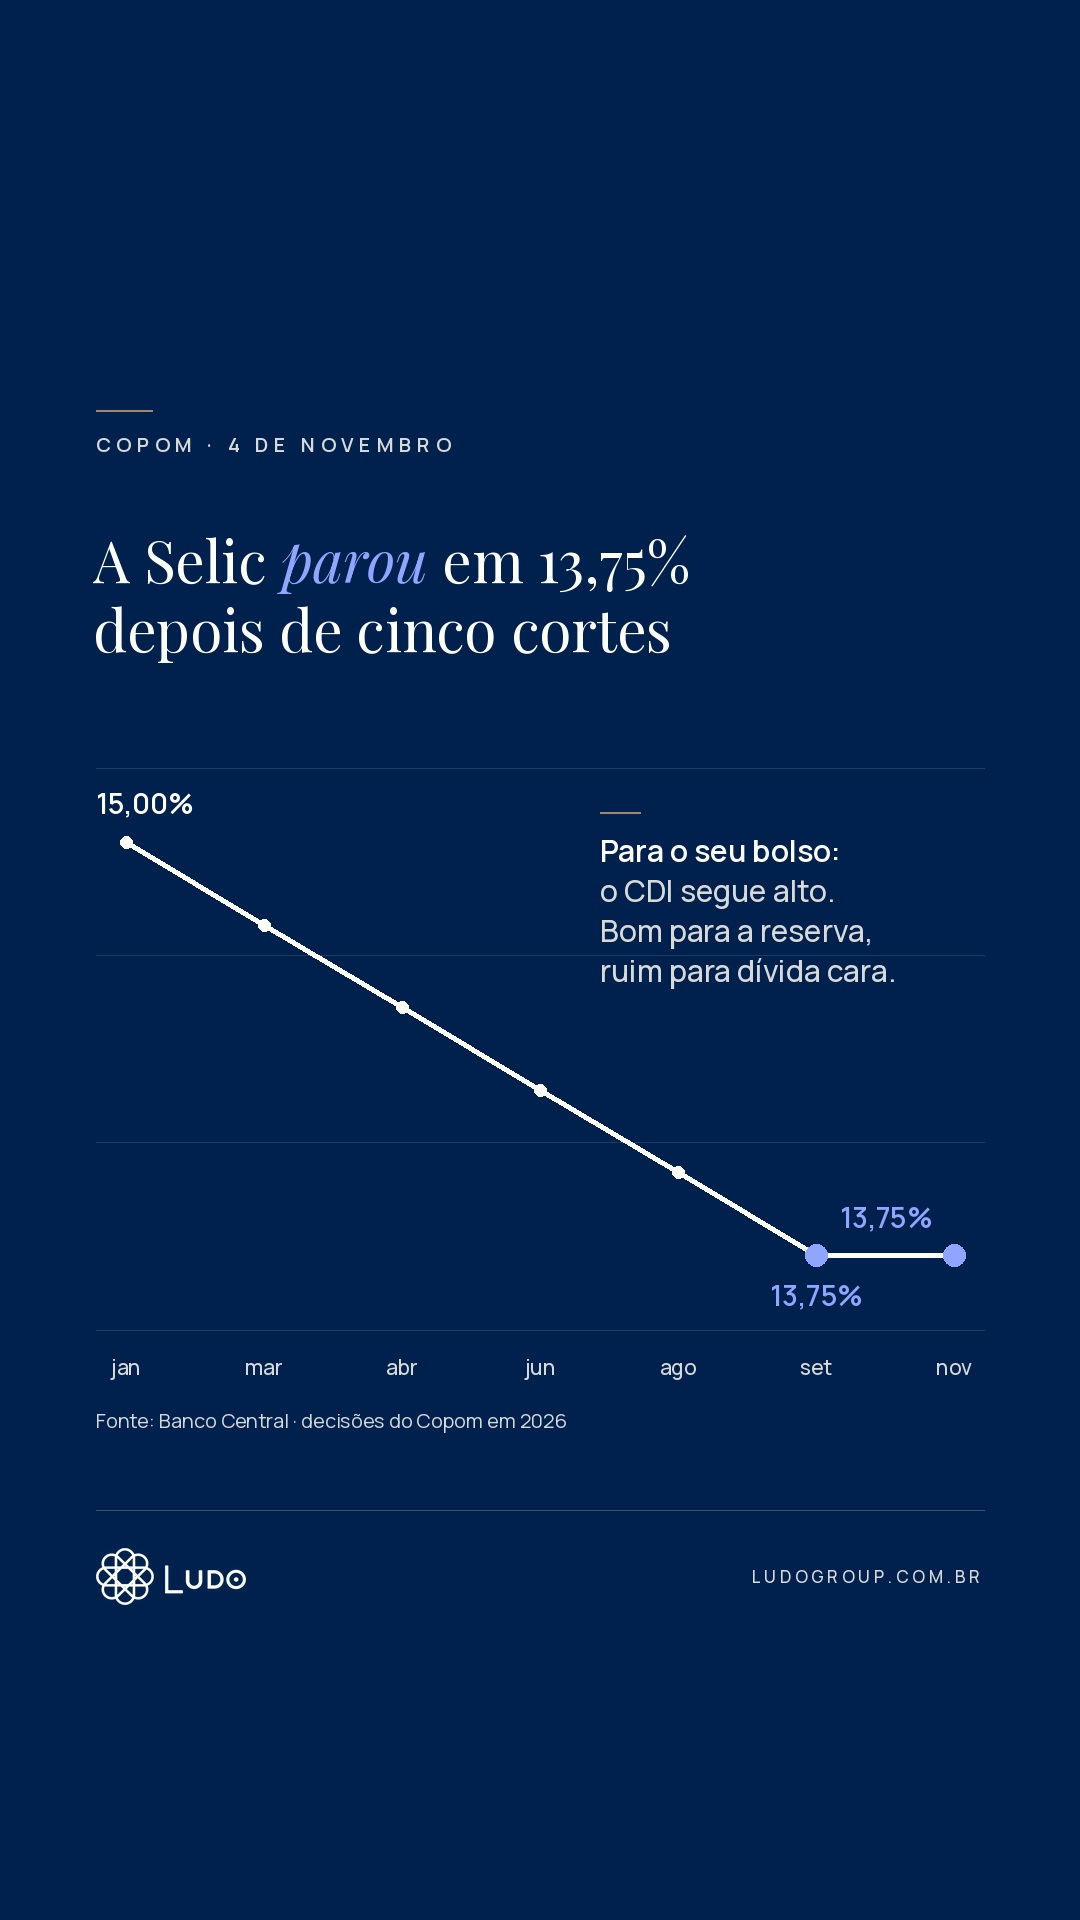
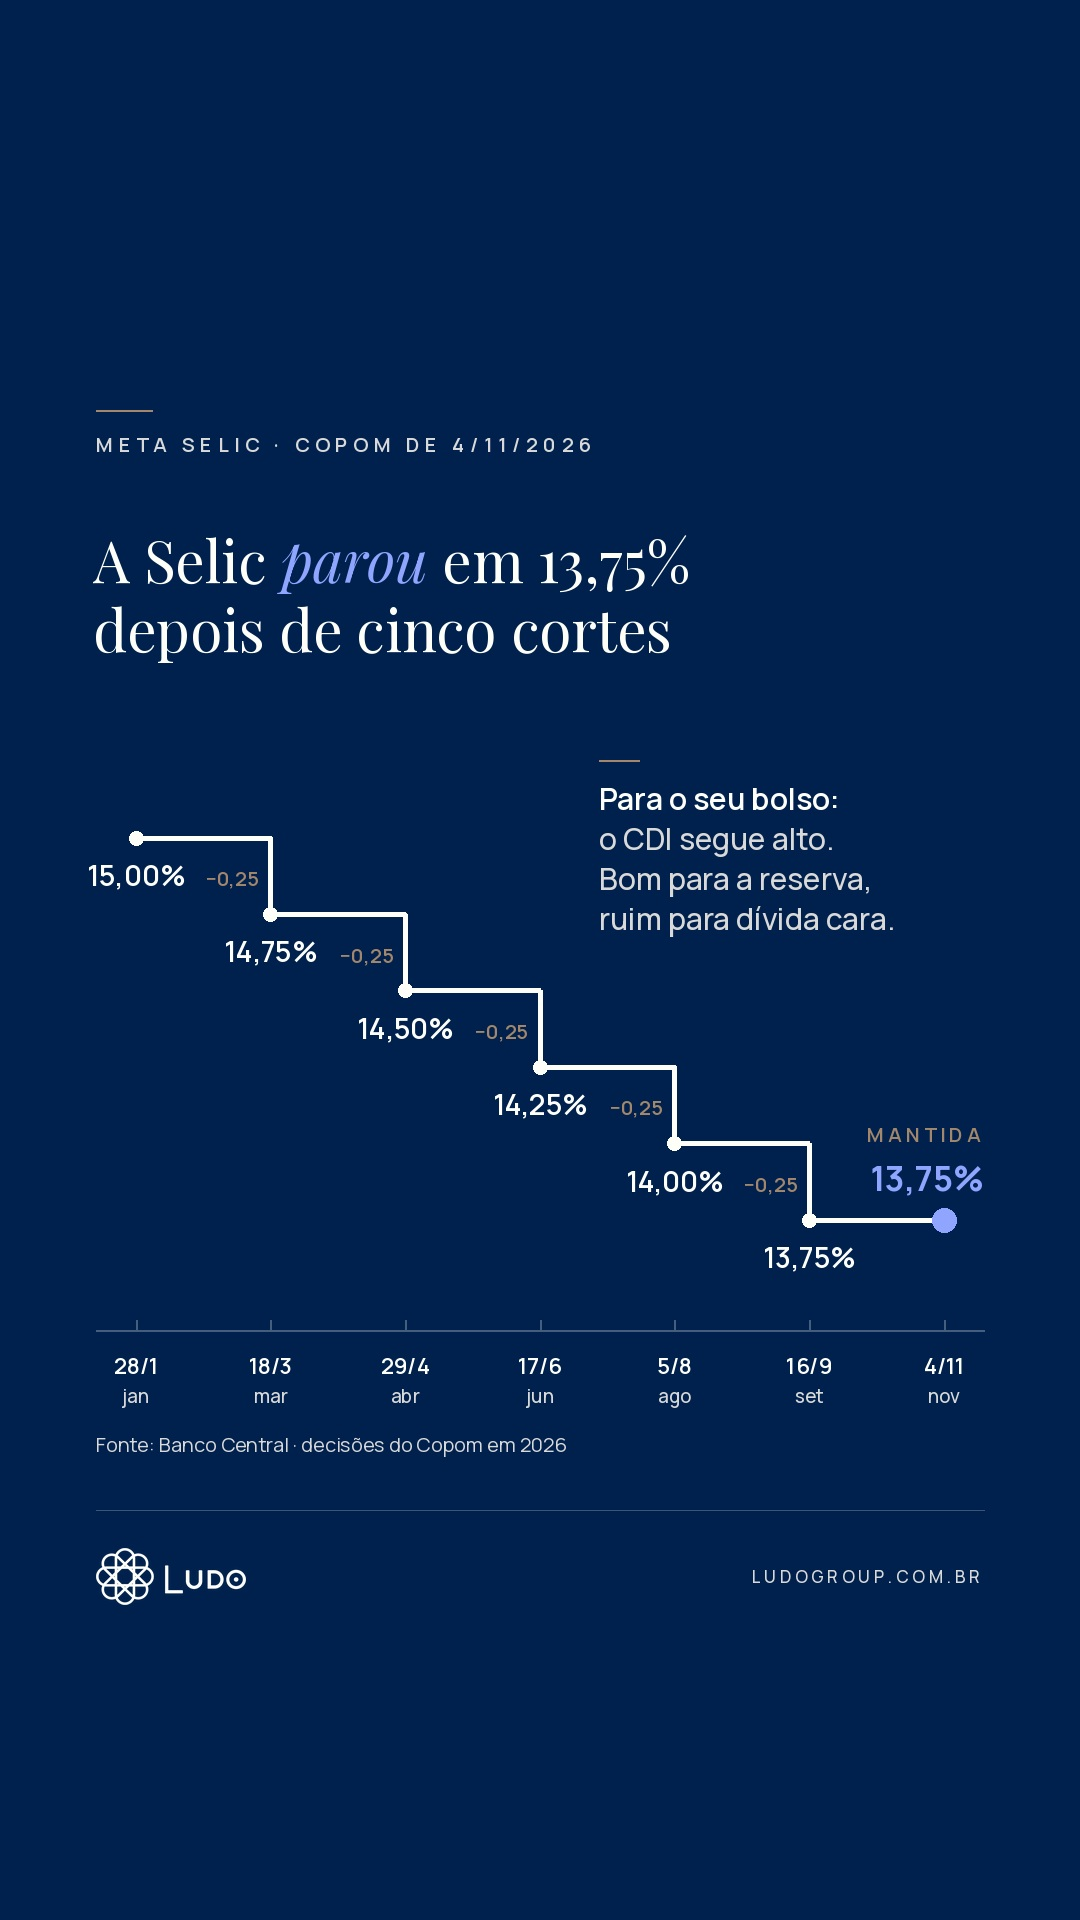
Post 2026-11-05: Copom em degraus com as 7 decisões de 2026; novo layout degraus()
A arte anterior ligava as decisões em diagonal e não mostrava as datas.
Novo layout degraus() em ludo_templates.py: um ponto por reunião do Copom,
degraus em vez de diagonais, tamanho de cada corte e 'mantida' na pausa.

Claude-Session: https://claude.ai/code/session_01R98K3SPwAKTuPiGvVhnHTv

diff --git a/marca/ludo_templates.py b/marca/ludo_templates.py
@@ -10,6 +10,8 @@ gravação real da pasta do Drive). Conteúdo de artes vira Carrossel ou Feed.
 Layouts: editorial, pontos, numero (big_size para números longos), manifesto,
 fluxo (diagrama estilo Sankey: origem → destinos, valores proporcionais),
 grafico (dados oficiais em barras/linha; referencia=(valor, rótulo) traça linha de meta/teto),
+degraus (decisões que valem até a próxima, como a meta Selic por reunião do Copom: uma data por decisão,
+         degraus em vez de diagonais; NUNCA use grafico(tipo='linha') para a trajetória da Selic),
 foto (foto real de pessoas/eventos da pasta fotos/, com véu marinho e título),
 frase (foto do Luis + frase com destaque: fala real dele entre aspas ou informação relevante;
        modo="base" = foto em tela cheia e frase em faixas cor de papel; modo="topo" = frase no alto, foto embaixo).
@@ -651,6 +653,77 @@ def grafico(label, title, dados, unidade="", fonte=None, foot=None, dark=False, 
     d = ImageDraw.Draw(img)
     if fonte:
         d.text((M, y1 + 76), f"Fonte: {fonte}", font=font("sans", 20), fill=soft)
+    _footer(img, d, dark, foot, page)
+    return img.convert("RGB")
+
+
+def degraus(label, title, dados, unidade="%", fonte=None, foot=None, dark=True, page=None, title_size=58,
+            casas=2, nota=None, eixo=None):
+    """Gráfico em degraus para decisões que valem até a próxima (ex.: meta Selic por reunião do Copom).
+    dados: [('data da decisão', valor), ...], um ponto por decisão (até 9). Cada valor fica em linha reta
+    até a decisão seguinte e cai ou sobe em degrau (nunca em diagonal). Variações ficam marcadas em caramelo
+    ('−0,25'); decisão igual à anterior sai como 'mantida'. O último ponto fica em destaque.
+    eixo: rótulos extras sob as datas (ex.: meses). nota: [(texto, 'sans-sb' | 'sans-m'), ...] no canto
+    superior direito (área livre quando a série cai)."""
+    bg = NAVY if dark else PAPER
+    img = Image.new("RGBA", (W, H), bg + (255,)); d = ImageDraw.Draw(img)
+    ink, soft, acc = (OFF, G2, _h("8fa5ff")) if dark else (NAVY, GRAPH, BLUE)
+    d.line([M, 150 + TOP, M + 56, 150 + TOP], fill=CARAMEL, width=2)
+    spaced(d, M, 170 + TOP, label, font("sans-sb", 20), soft)
+    y = 260 + TOP
+    for line in title:
+        rich_line(d, M - 3, y, line, title_size, ink, acc); y += int(title_size * 1.2)
+    n = len(dados); vals = [v for _, v in dados]
+    y0, y1 = y + 110, H - BOT - 330
+    x0, x1 = M, W - M
+    lo, hi = min(vals), max(vals)
+    span = (hi - lo) or 1.0
+    py0, py1 = y0 + 70, y1 - 110                     # faixa dos pontos: espaço p/ rótulos acima e abaixo
+    passo = (x1 - x0 - 80) / max(n - 1, 1)
+    pts = [(x0 + 40 + passo * i, py1 - (v - lo) / span * (py1 - py0)) for i, v in enumerate(vals)]
+    ov = Image.new("RGBA", img.size, (0, 0, 0, 0)); od = ImageDraw.Draw(ov)
+    regua = (255, 255, 255, 70) if dark else (0, 33, 77, 60)
+    od.line([x0, y1, x1, y1], fill=regua, width=2)
+    for i in range(n - 1):                           # degrau: horizontal até a próxima decisão, depois vertical
+        (xa, ya), (xb, yb) = pts[i], pts[i + 1]
+        od.line([(xa, ya), (xb, ya), (xb, yb)], fill=ink + (255,), width=5, joint="curve")
+    realce = acc
+    fv, fd, fm, fdel = font("sans-sb", 28), font("sans-sb", 22), font("sans-m", 19), font("sans-sb", 20)
+    for i, ((px, py), (rot, v)) in enumerate(zip(pts, dados)):
+        ultimo = i == n - 1
+        r = 12 if ultimo else 7
+        od.ellipse([px - r, py - r, px + r, py + r], fill=(realce if ultimo else ink) + (255,))
+        od.line([px, y1 - 10, px, y1], fill=regua, width=2)
+        mantida = i > 0 and abs(v - vals[i - 1]) < 1e-9
+        txt = fmt_valor(v, unidade, casas)
+        if ultimo:
+            tw = d.textlength(txt, font=font("sans-b", 34))
+            d.text((min(px - tw / 2, x1 - tw), py - 66), txt, font=font("sans-b", 34), fill=realce)
+            if mantida:                              # "MANTIDA" logo acima do valor em destaque
+                t2 = "MANTIDA"; w2 = spaced_width(d, t2, fdel, 0.2)
+                spaced(d, min(px - w2 / 2, x1 - w2), py - 100, t2, fdel, CARAMEL, 0.2)
+        else:
+            tw = d.textlength(txt, font=fv)
+            d.text((px - tw / 2, py + 18), txt, font=fv, fill=ink)
+        if i > 0 and not mantida:                    # tamanho do degrau, à esquerda do trecho vertical
+            dv = v - vals[i - 1]
+            t = ("−" if dv < 0 else "+") + fmt_valor(abs(dv), "", casas)
+            ym = (pts[i - 1][1] + py) / 2
+            d.text((px - 12 - d.textlength(t, font=fdel), ym - 12), t, font=fdel, fill=CARAMEL)
+        dw = d.textlength(rot, font=fd)
+        d.text((px - dw / 2, y1 + 20), rot, font=fd, fill=ink)
+        if eixo:
+            ew = d.textlength(eixo[i], font=fm)
+            d.text((px - ew / 2, y1 + 52), eixo[i], font=fm, fill=soft)
+    img.alpha_composite(ov)
+    d = ImageDraw.Draw(img)
+    if nota:
+        nx, ny = W - M - 385, y0 + 10
+        d.line([nx, ny - 18, nx + 40, ny - 18], fill=CARAMEL, width=2)
+        for k, (t, f) in enumerate(nota):
+            d.text((nx, ny + k * 40), t, font=font(f, 30), fill=ink if f == "sans-sb" else soft)
+    if fonte:
+        d.text((M, y1 + (100 if eixo else 76)), f"Fonte: {fonte}", font=font("sans", 20), fill=soft)
     _footer(img, d, dark, foot, page)
     return img.convert("RGB")
 
